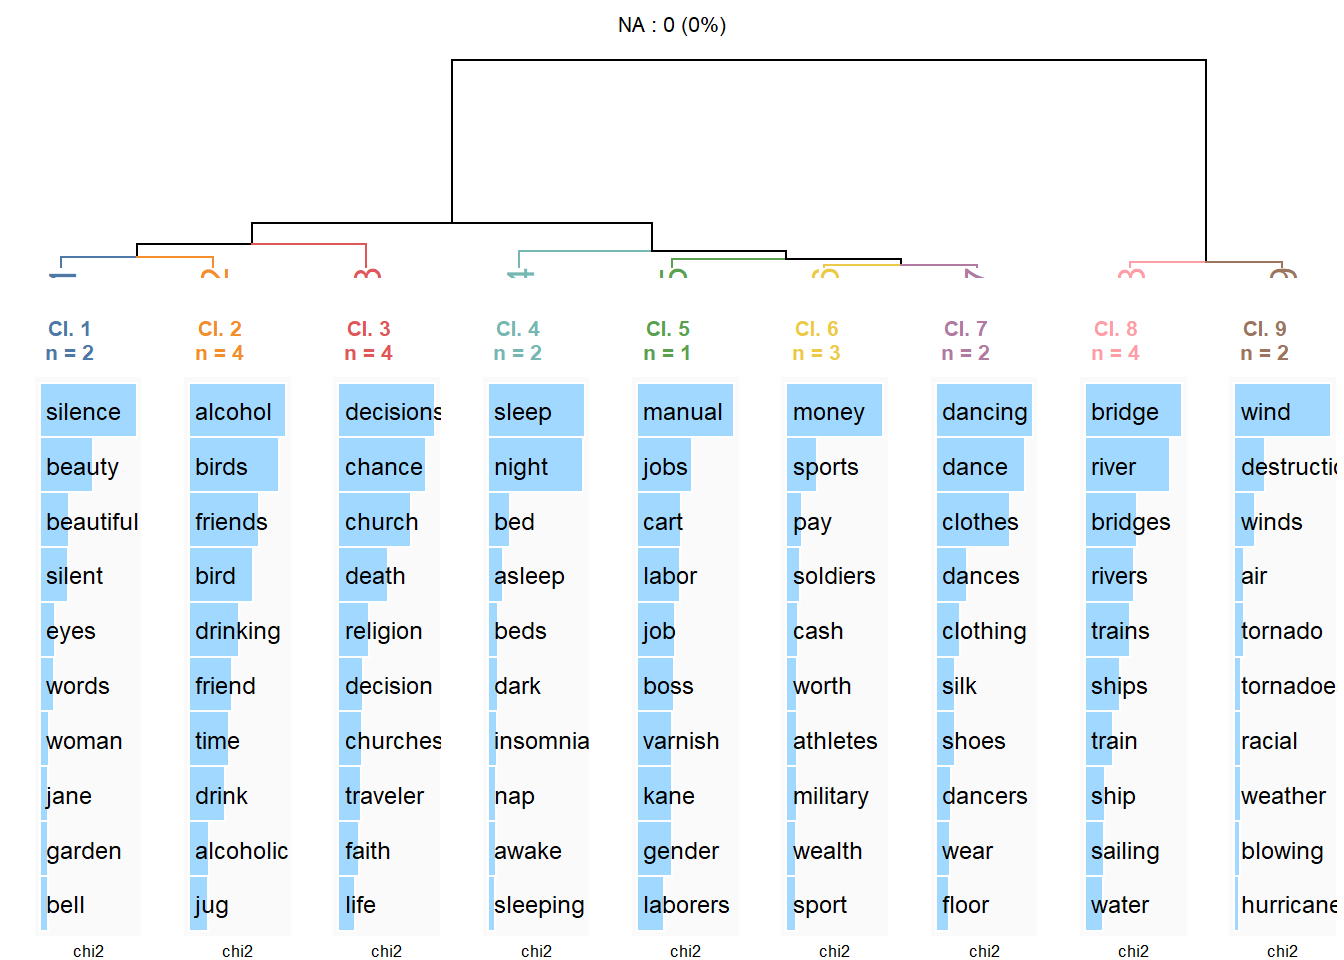
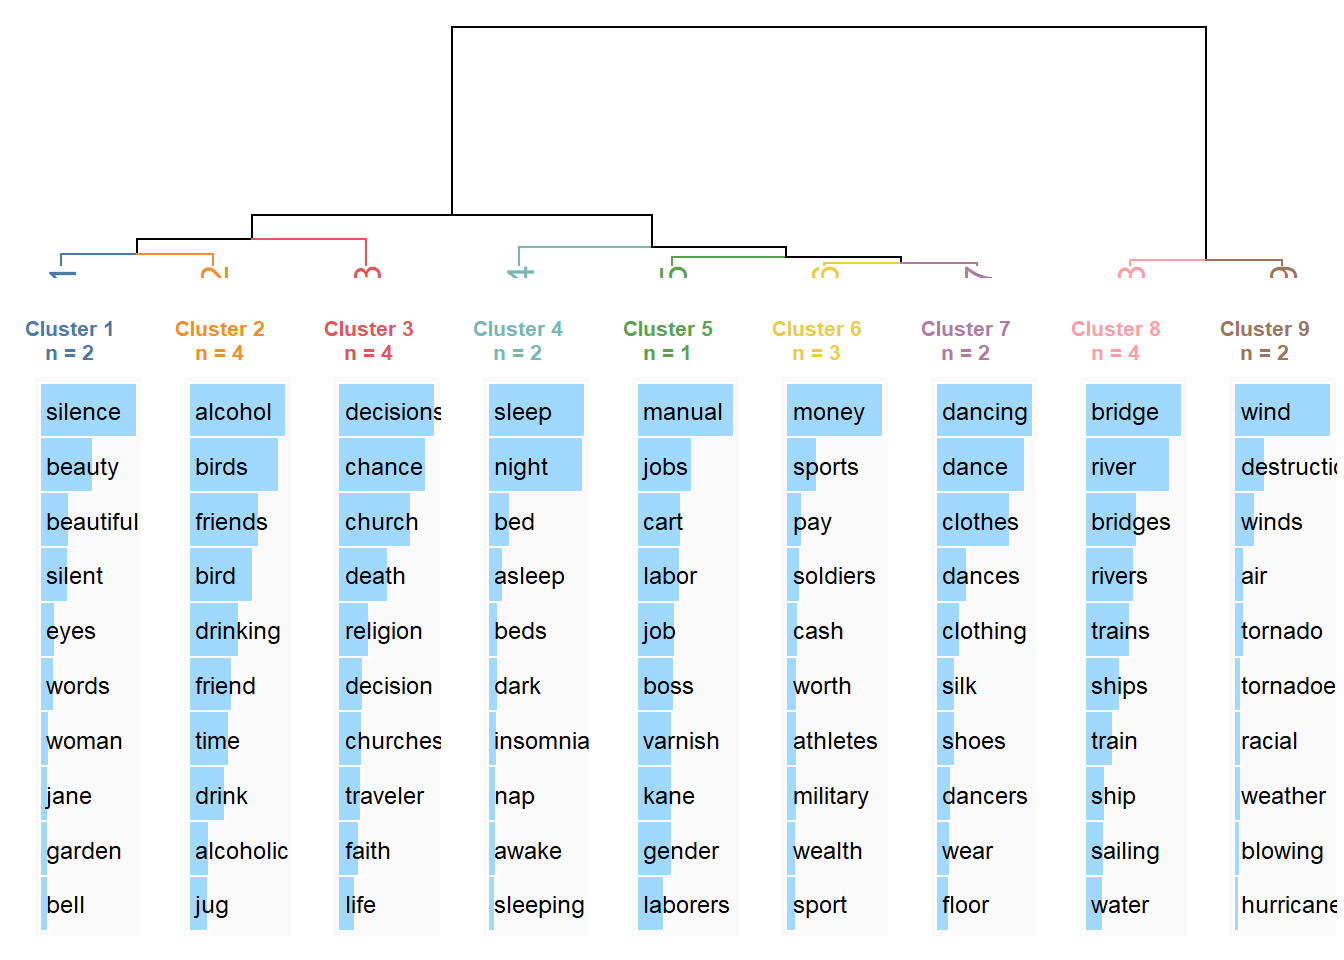
had to include devtools version of reinert

diff --git a/content/post/2022-02-04-cluster-themes-with-reinert-textual-data-clustering/Part V Reinert.html b/content/post/2022-02-04-cluster-themes-with-reinert-textual-data-clustering/Part V Reinert.html
@@ -38,28 +38,15 @@ draft: no
 </li>
 <li>the largest of the two resulting clusters is then split with the same algorithm (hence, this is divisive hierarchical clustering) until it reaches the chosen number of clusters or a maximum of nine.</li>
 </ul>
-<p>According to the calculations of the rainette package, the strongest associations (the highest Chi-squared values) are between Night and Sleep (almost 1100, in Cluster 4). But any conclusions drawn from this exercise are unreliable because more text cleaning should precede the clustering. The next time I deploy the Reinert text clustering method I will standardize (lemmatize) the Theme variants, such as converting “dancing” to “dance” and adjust plurals, such as “soldiers” to “soldier.”</p>
-<p>The plot below displays the maximum of nine clusters that the algorithm can handle. The length of the bars visible behind the 10 terms that most represent a cluster correspond to the Chi-squared value, sorted in descending order. The “n =” row tells how many Themes comprise that cluster; for example, four Themes make up “Cl. 2”. The small dendrogram atop the cluster table visualizes the divisive, top-down methodology.</p>
+<p>According to the calculations of the rainette package, the strongest associations (the highest Chi-squared values) are between Night and Sleep (almost 1,100, in Cluster 4). But any conclusions drawn from this exercise are unreliable because more text cleaning should precede the clustering. The next time I deploy the Reinert text clustering method I will standardize (lemmatize) the Theme variants, such as converting “dancing” to “dance” and adjust plurals, such as “soldiers” to “soldier.”</p>
+<p>The plot below displays nine clusters, a number that I selected mostly for readability of the plots. The length of the bars visible behind the 10 terms that most represent a cluster correspond to the Chi-squared value, sorted in descending order. The “n =” row tells how many Themes comprise that cluster; for example, four Themes make up “Cluster 2”. The small dendrogram atop the cluster table visualizes the divisive, top-down methodology.</p>
 <p><img src="/post/2022-02-04-cluster-themes-with-reinert-textual-data-clustering/Part%20V%20Reinert_files/figure-html/rainette-1.png" width="672" /></p>
-<p>In a different visualization of the same clustering determination, the next plot presents with a “wordcloud” style, where the size of the word matches its Chi-squared value relative to the cluster. It shows only 8 key terms, for legibility.</p>
+<p>In a different visualization of the same clustering determination, the next plot presents a “wordcloud” style, where the size of the word matches its Chi-squared value relative to the cluster. It shows only eight key terms, for legibility.</p>
 <p><img src="/post/2022-02-04-cluster-themes-with-reinert-textual-data-clustering/Part%20V%20Reinert_files/figure-html/rainettePlot2-1.png" width="672" /></p>
-<pre><code>## TableGrob (3 x 9) &quot;arrange&quot;: 10 grobs
-##     z     cells    name           grob
-## 1   1 (1-1,1-9) arrange gtable[layout]
-## 2   2 (2-3,1-1) arrange gtable[layout]
-## 3   3 (2-3,2-2) arrange gtable[layout]
-## 4   4 (2-3,3-3) arrange gtable[layout]
-## 5   5 (2-3,4-4) arrange gtable[layout]
-## 6   6 (2-3,5-5) arrange gtable[layout]
-## 7   7 (2-3,6-6) arrange gtable[layout]
-## 8   8 (2-3,7-7) arrange gtable[layout]
-## 9   9 (2-3,8-8) arrange gtable[layout]
-## 10 10 (2-3,9-9) arrange gtable[layout]</code></pre>
-<p><img src="/post/2022-02-04-cluster-themes-with-reinert-textual-data-clustering/Part%20V%20Reinert_files/figure-html/gtablecoerce-1.png" width="672" /></p>
 <div id="combine-the-pairings-from-the-three-clustering-methods" class="section level3">
 <h3>Combine the pairings from the three clustering methods</h3>
 <p>Once the closest pairs were obtained by k-means clustering, agglomerative hierarchical clustering, and Reinert text clustering, I combined them into a dataframe. The first inquiry was whether any Theme is closest to any other Theme more than once (or even by all three algorithms). Each letter pair in column “Two” of the table below tells us that two algorithms found that pair of Themes to be closest, e.g., Birds and Chance (both A), Bridges and Rivers (both B). The “One” column tells how many other Themes were also identified for that Theme as closest. So, for example, Dancing paired twice with Wind (both marked with D in column “Two”) and with four other Themes – the “4” in column “One.” The Themes in column “Single Closest Themes” had no pair, only single instances of closest Themes. Thus, Money was “closest” to seven Themes, according to column “Single.”</p>
-<p>Bear in mind that my method of picking closest Themes from the agglomerative hiearchical clustering (Part IV)[IV] yielded multiple “closest” Themes as I tied each agglomerated Theme to each of the Themes already in a unit (if that were the case). In the series of posts to come, I will refine my method and thereby reduce the number of pairings.<br />
+<p>Bear in mind that my method of picking closest Themes from the agglomerative hiearchical clustering <a href="https://themesfromart.com/post/2022-02-04-part-iv-cluster-themes-with-agglomerative-hierarchical-clustering/part-iv-hiearch/">Part IV</a> yielded multiple “closest” Themes as I tied each agglomerated Theme to each of the Themes already in a unit (if that were the case). In the series of posts to come, I will refine my method and thereby reduce the number of pairings.<br />
 </p>
 <table class="table" style="margin-left: auto; margin-right: auto;">
 <caption>
@@ -315,7 +302,6 @@ G
 <li><p>Part IX: Find Similar Themes with Embeddings and Transformations</p></li>
 <li><p>Part X: Including Results of Above Algorithms into Closest Theme-Pairs Analysis</p></li>
 </ul>
-<p> </p>
 <p>By the end of May 2022, a third series of five analytic posts may encompass 36 Themes, rely on a modified set of metrics (e.g., movie synopses, figurative expressions, improved consistency with singular and plural forms of the Themes), and address the following topics:</p>
 <ul>
 <li><p>Part XI: Critique of Quantifying Centrality and Complexity in Themes</p></li>
@@ -325,7 +311,6 @@ G
 <li><p>Part XIV: Find Similar Themes with Correspondence Analysis (CA)</p></li>
 <li><p>Part XV: Further Refinement of Closest Theme Pairs Analysis</p></li>
 </ul>
-<p> </p>
 <p>A fourth series of posts in the Summer of 2022 may incorporate as many as 40 Themes. Among its potential topics, we envision:</p>
 <ul>
 <li><p>Part XVI: More Clustering Techniques
